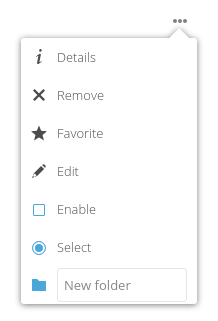
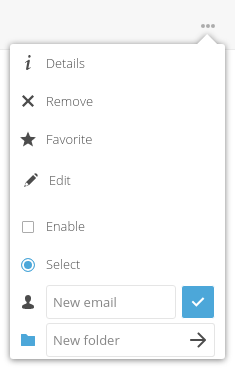
Updated popover example with latest inputs standard

diff --git a/developer_manual/design/popovermenu.rst b/developer_manual/design/popovermenu.rst
@@ -60,13 +60,22 @@ Basic layout
            </li>
             <li>
                 <span class="menuitem">
-                    <span class="icon icon-folder"></span>
+                    <span class="icon icon-user"></span>
                     <form>
-                            <input id="input-folder" type="text" value="New folder">
+                            <input id="input-folder" type="text" value="new email">
                             <input type="submit" value=" " class="primary icon-checkmark-white">
                     </form>
                 </span>
             </li>
+             <li>
+                 <span class="menuitem">
+                     <span class="icon icon-folder"></span>
+                     <form>
+                             <input id="input-folder" type="text" value="New folder">
+                             <input type="submit" value=" " class="icon-confirm">
+                     </form>
+                 </span>
+             </li>
         <ul>
     </div>
 
